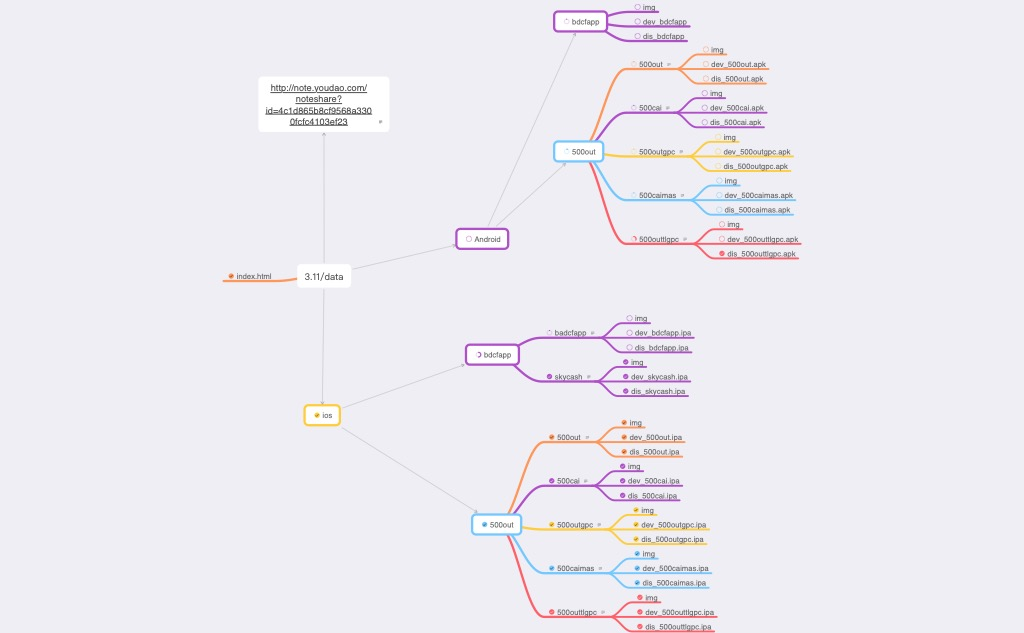
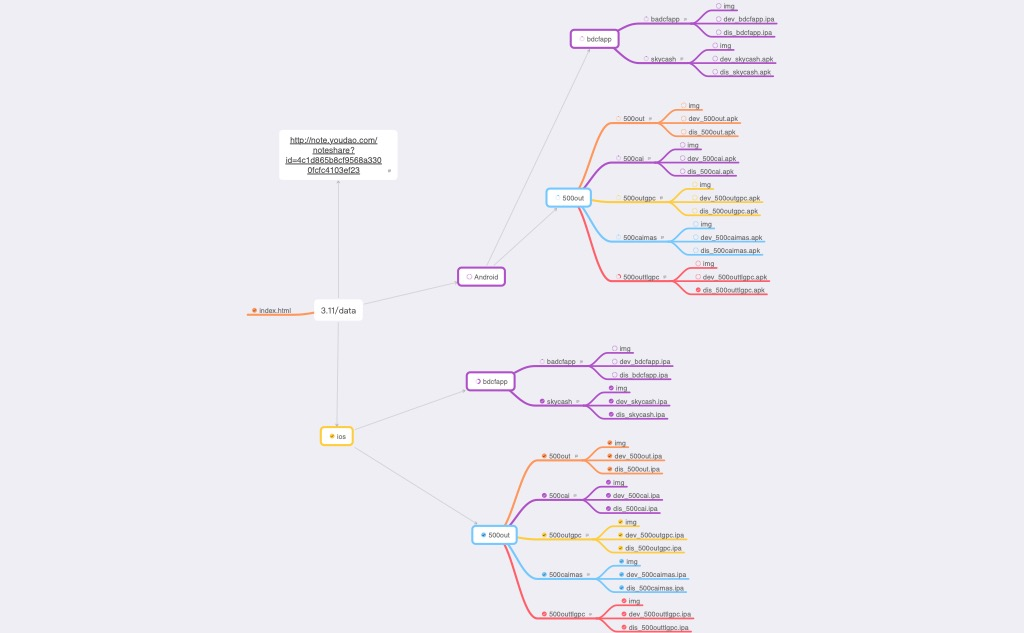
no message

diff --git a/uploadstatic/source/50x.html b/uploadstatic/source/50x.html
@@ -1,30 +1,42 @@
 <!DOCTYPE html>
 <html>
 <head>
-    <meta charset="utf-8" />
-    <title>专用测试</title>
+    <title>内部测试</title>
+    <meta  charset="utf-8" content="width=device-width, initial-scale=1.0, maximum-scale=1.0, user-scalable=0" name="viewport" />
     <style>
+        /* html, body {
+        margin: 0;
+        height: 100%;
+        width: 100%;
+        overflow: hidden;
+    } */
         body {
             width: auto;
             margin: 0 auto;
             padding:0;
-        }
+             /* 适配齐刘海*/
+            padding-top: constant(safe-area-inset-top);  
+            /* 适配底部黑条*/
+             padding-bottom: constant(safe-area-inset-bottom);
+        } 
         .install{
-            margin-left: 50px;
-            margin-top: 10px;
+            margin-left: 15px;
+            margin-right: 10px;
+            margin-top: 5px;
             position: absolute;
         }
         .install1{
             clear:both;
-            margin-left: 50px;
+            margin-left: 15px;
+            margin-right: 10px;
             margin-top: 500px;
             position: absolute;
         }
 
        .down {
-            margin-left: 50px;
+            margin-left: 15px;
             margin-top: 950px;
-            margin-bottom: 100px;
+            padding-bottom: 100px;
             position: absolute;
         }
 
@@ -44,6 +56,24 @@
     text-decoration: none;
     line-height: 50px;
 }
+
+.link_button1 {
+    -webkit-border-radius: 4px;
+    -moz-border-radius: 4px;
+    border-radius: 4px;
+    border: solid 1px green;
+    text-shadow: 0 -1px 0 rgba(0, 0, 0, 0.4);
+    -webkit-box-shadow: inset 0 1px 0 rgba(255, 255, 255, 0.4), 0 1px 1px rgba(0, 0, 0, 0.2);
+    -moz-box-shadow: inset 0 1px 0 rgba(255, 255, 255, 0.4), 0 1px 1px rgba(0, 0, 0, 0.2);
+    box-shadow: inset 0 1px 0 rgba(255, 255, 255, 0.4), 0 1px 1px rgba(0, 0, 0, 0.2);
+    background: green;
+    color: #FFF;
+    padding: 8px 12px;
+    text-decoration: none;
+    line-height: 50px;
+
+}
+
     </style>
 </head>
 
@@ -51,7 +81,7 @@
     <div class="install">
         <p style="font-size: 18px; color: #F00">测试人员安装教程如下方法:</p>
         <p style="font-size: 28px; color:teal">测试服务器:</p>
-        <p style="font-size: 18px; color:rgb(164, 201, 89)">苹果方法一:请使用苹果手机的Safari打开连接,点击安装测试包.</p>
+        <p style="font-size: 18px; color:#4479BA">苹果方法一:请使用苹果手机的Safari打开连接,点击安装测试包.</p>
 
         <div style="height: 80px">
             <!-- <a href="itms-services://?action=download-manifest&url=https://raw.githubusercontent.com/Debiao/Essence/master/github_plist/bdcfapp/dev_bdcfapp.plist" class="link_button">bdcfapp</a> -->
@@ -64,23 +94,24 @@
 
         </div>
         
-
+      
         <div style="margin-top: 50px">
-        <p style="font-size: 18px; color:rgb(164, 201, 89)">安卓方法一:点击安装测试包.</p>
-        <a href="itms-services://?action=download-manifest&url=https://raw.githubusercontent.com/Debiao/Essence/master/github_plist/bdcfapp/dis_bdcfapp.plist" class="link_button">bdcfapp</a>
-        <a href="itms-services://?action=download-manifest&url=https://raw.githubusercontent.com/Debiao/Essence/master/github_plist/500out/500out/dis_500out.plist" class="link_button">500out</a>
-        <a href="itms-services://?action=download-manifest&url=https://raw.githubusercontent.com/Debiao/Essence/master/github_plist/500out/500cai/dis_500cai.plist" class="link_button">500cai</a>
-        <a href="itms-services://?action=download-manifest&url=https://raw.githubusercontent.com/Debiao/Essence/master/github_plist/500out/500outgpc/dis_500outgpc.plist" class="link_button">500outgpc</a>
-        <!-- <a href="itms-services://?action=download-manifest&url=https://raw.githubusercontent.com/Debiao/Essence/master/github_plist/500out/500caimas/dis_500caimas.plist" class="link_button">500caimas</a> -->
-        <a href="https://zt.gzxstech.com/Android/500out/500outtlgpc/dis_500outtlgpc.apk" class="link_button">股彩土楼</a>
+        <p style="font-size: 18px; color:green">安卓方法一:点击安装测试包.</p>
+        <a href="https://zt.gzxstech.com/Android/bdcfapp/skycash/dev_skycash.apk" class="link_button1">skycash</a>
+        <a href="https://zt.gzxstech.com/Android/500out/500out/dev_500out.apk" class="link_button1">500out</a>
+        <a href="https://zt.gzxstech.com/Android/500out/500cai/dev_500cai.apk" class="link_button1">500cai</a>
+        <a href="https://zt.gzxstech.com/Android/500out/500outgpc/dev_500outgpc.apk" class="link_button1">500outgpc</a>
+        <a href="https://zt.gzxstech.com/Android/500out/500outtlgpc/dev_500outtlgpc.apk" class="link_button1">股彩土楼</a>
         <br />
         </div>
     </div>
 
 
+    
+
     <div class="install1">
         <p style="font-size: 28px; color:teal">正式服务器:</p>
-        <p style="font-size: 18px; color:rgb(164, 201, 89)">苹果方法一:请使用苹果手机的Safari打开连接,点击安装测试包.</p>
+        <p style="font-size: 18px; color:#4479BA">苹果方法一:请使用苹果手机的Safari打开连接,点击安装测试包.</p>
 
         <div style="height: 80px">
             <a href="itms-services://?action=download-manifest&url=https://raw.githubusercontent.com/Debiao/Essence/master/github_plist/bdcfapp/skycash/dis_skycash.plist" class="link_button">skycash</a>
@@ -93,13 +124,12 @@
         </div>
 
         <div style="margin-top: 50px">
-        <p style="font-size: 18px; color:rgb(164, 201, 89)">安卓方法一:点击安装测试包.</p>
-        <a href="itms-services://?action=download-manifest&url=https://raw.githubusercontent.com/duanade/myproject/master/bdcfceshi.plist" class="link_button">bdcfapp</a>
-        <a href="itms-services://?action=download-manifest&url=https://raw.githubusercontent.com/Debiao/Essence/master/github_plist/500out/500out/dev_500out.plist" class="link_button">500out</a>
-        <a href="itms-services://?action=download-manifest&url=https://raw.githubusercontent.com/Debiao/Essence/master/github_plist/500out/500out/dev_500out.plist" class="link_button">500cai</a>
-        <a href="itms-services://?action=download-manifest&url=https://raw.githubusercontent.com/Debiao/Essence/master/github_plist/500out/500out/dev_500out.plist" class="link_button">500outgpc</a>
-        <!-- <a href="itms-services://?action=download-manifest&url=https://raw.githubusercontent.com/Debiao/Essence/master/github_plist/500out/500out/dev_500out.plist" class="link_button">500caimas</a> -->
-        <a href="https://zt.gzxstech.com/Android/500out/500outtlgpc/dis_500outtlgpc.apk" class="link_button">股彩土楼</a>
+        <p style="font-size: 18px; color:green">安卓方法一:点击安装测试包.</p>
+        <a href="https://zt.gzxstech.com/Android/bdcfapp/skycash/dis_skycash.apk" class="link_button1">skycash</a>
+        <a href="https://zt.gzxstech.com/Android/500out/500out/dis_500out.apk" class="link_button1">500out</a>
+        <a href="https://zt.gzxstech.com/Android/500out/500cai/dis_500cai.apk" class="link_button1">500cai</a>
+        <a href="https://zt.gzxstech.com/Android/500out/500outgpc/dis_500outgpc.apk" class="link_button1">500outgpc</a>
+        <a href="https://zt.gzxstech.com/Android/500out/500outtlgpc/dis_500outtlgpc.apk" class="link_button1">股彩土楼</a>
         <br />
         </div>
     </div>
@@ -107,7 +137,7 @@
     
     <div class="down">
         <p style="font-size: 28px;color:teal">
-            未签名包下载:
+            苹果未签名包下载:
         </p>
         <div style="height: 80px">
             <!-- <a href="https://zt.gzxstech.com/ios/bdcfapp/dis_bdcfapp.ipa" class="link_button">bdcfapp</a> -->
@@ -116,6 +146,7 @@
             <a href="https://zt.gzxstech.com/ios/500out/500cai/dis_500cai.ipa" class="link_button">500cai</a>
             <a href="https://zt.gzxstech.com/ios/500out/500outgpc/dis_500outgpc.ipa" class="link_button">500outgpc</a>
             <!-- <a href="https://zt.gzxstech.com/ios/500out/500caimas/dis_500caimas.ipa" class="link_button">500caimas</a> -->
+            <br>
             <a href="https://zt.gzxstech.com/ios/500out/500outtlgpc/dis_500outtlgpc.ipa" class="link_button">股彩土楼</a>
         </div>
      
@@ -124,3 +155,19 @@
 </body>
 
 </html>
+<script type="text/javascript">
+        function resizeRem() {
+        if (window.innerWidth < window.innerHeight)
+        {
+            var html = document.querySelector('html');
+            var rem = html.offsetHeight / 10.80;
+            html.style.fontSize = rem + "px";
+        }
+        else {
+            var html = document.querySelector('html');
+            var rem = html.offsetWidth / 19.20;
+            html.style.fontSize = rem + "px";
+        }
+    }
+</script>
+

diff --git a/uploadstatic/source/50.html b/uploadstatic/source/50.html
@@ -1,0 +1,113 @@
+<!DOCTYPE html>
+<html>
+<head>
+  <title>内部测试</title>
+  <meta charset="utf-8">
+  <meta name="viewport" content="width=device-width, initial-scale=1">
+  <link rel="stylesheet" href="https://cdn.staticfile.org/twitter-bootstrap/3.3.7/css/bootstrap.min.css">  
+  <script src="https://cdn.staticfile.org/jquery/2.1.1/jquery.min.js"></script>
+  <script src="https://cdn.staticfile.org/twitter-bootstrap/3.3.7/js/bootstrap.min.js"></script>
+  <style>
+    .link_button {
+    -webkit-border-radius: 4px;
+    -moz-border-radius: 4px;
+    border-radius: 4px;
+    border: solid 1px #20538D;
+    text-shadow: 0 -1px 0 rgba(0, 0, 0, 0.4);
+    -webkit-box-shadow: inset 0 1px 0 rgba(255, 255, 255, 0.4), 0 1px 1px rgba(0, 0, 0, 0.2);
+    -moz-box-shadow: inset 0 1px 0 rgba(255, 255, 255, 0.4), 0 1px 1px rgba(0, 0, 0, 0.2);
+    box-shadow: inset 0 1px 0 rgba(255, 255, 255, 0.4), 0 1px 1px rgba(0, 0, 0, 0.2);
+    background: #4479BA;
+    color: #FFF;
+    padding: 8px 12px;
+    text-decoration: none;
+    line-height: 50px;
+}
+    .link_button1 {
+    -webkit-border-radius: 4px;
+    -moz-border-radius: 4px;
+    border-radius: 4px;
+    border: solid 1px green;
+    text-shadow: 0 -1px 0 rgba(0, 0, 0, 0.4);
+    -webkit-box-shadow: inset 0 1px 0 rgba(255, 255, 255, 0.4), 0 1px 1px rgba(0, 0, 0, 0.2);
+    -moz-box-shadow: inset 0 1px 0 rgba(255, 255, 255, 0.4), 0 1px 1px rgba(0, 0, 0, 0.2);
+    box-shadow: inset 0 1px 0 rgba(255, 255, 255, 0.4), 0 1px 1px rgba(0, 0, 0, 0.2);
+    background: green;
+    color: #FFF;
+    padding: 8px 12px;
+    text-decoration: none;
+    line-height: 50px;
+
+}
+  </style>
+</head>
+<body>
+        <!-- ①②③④⑤⑥⑦⑧⑨⑩ -->
+<div class="container">
+  <div class="jumbotron">
+    <h3>使用安装教程方法如下:</h3>
+    <p>一.简要说明:</p> 
+    <p>① 服务器: 分正式服务器和测试服务器.</p>
+    <p>② 苹果手机: 请使用苹果手机自带的Safari打开链接,点击安装测试包.</p>
+    <p>③ 安卓手机: 请使用手机浏览器打开链接,点击安装测试包.</p>
+    <p>④ 苹果未签名包下载:请使用任意浏览器点击可以直接下载.</p>
+  </div>
+  
+   <h3>苹果区</h3>
+  
+   <div class="row">
+        <div class="col-sm-6">
+            <h4>正试服</h4>
+            <div class="jumbotron">
+                <a href="itms-services://?action=download-manifest&url=https://raw.githubusercontent.com/Debiao/Essence/master/github_plist/bdcfapp/skycash/dis_skycash.plist" class="link_button">skycash</a>
+                <a href="itms-services://?action=download-manifest&url=https://raw.githubusercontent.com/Debiao/Essence/master/github_plist/500out/500out/dis_500out.plist" class="link_button">500out</a>
+                <a href="itms-services://?action=download-manifest&url=https://raw.githubusercontent.com/Debiao/Essence/master/github_plist/500out/500cai/dis_500cai.plist" class="link_button">500cai</a>
+                <a href="itms-services://?action=download-manifest&url=https://raw.githubusercontent.com/Debiao/Essence/master/github_plist/500out/500outgpc/dis_500outgpc.plist" class="link_button">500outgpc</a>
+                <a href="itms-services://?action=download-manifest&url=https://raw.githubusercontent.com/Debiao/Essence/master/github_plist/500out/500outtlgpc/dis_500outtlgpc.plist" class="link_button">股彩土楼</a>
+            </div>   
+        </div>
+        <div class="col-sm-6">
+           <h4>测试服</h4>
+            <div class="jumbotron">
+                <a href="itms-services://?action=download-manifest&url=https://raw.githubusercontent.com/Debiao/Essence/master/github_plist/bdcfapp/dev_bdcfapp.plist" class="link_button1">skycash</a>
+                <a href="itms-services://?action=download-manifest&url=https://raw.githubusercontent.com/Debiao/Essence/master/github_plist/500out/500out/dev_500out.plist" class="link_button1">500out</a>
+                <a href="itms-services://?action=download-manifest&url=https://raw.githubusercontent.com/Debiao/Essence/master/github_plist/500out/500cai/dev_500cai.plist" class="link_button1">500cai</a>
+                <a href="itms-services://?action=download-manifest&url=https://raw.githubusercontent.com/Debiao/Essence/master/github_plist/500out/500outgpc/dev_500outgpc.plist" class="link_button1">500outgpc</a>
+                <a href="itms-services://?action=download-manifest&url=https://raw.githubusercontent.com/Debiao/Essence/master/github_plist/500out/500outtlgpc/dev_500outtlgpc.plist" class="link_button1">股彩土楼</a>
+            </div>
+        </div>
+  </div>
+  <h3>安卓区</h3>
+  <div class="row">
+        <div class="col-sm-6">
+            <h4>正试服</h4>
+            <div class="jumbotron">
+                <a href="https://zt.gzxstech.com/Android/bdcfapp/skycash/dis_skycash.apk" class="link_button">skycash</a>
+                <a href="https://zt.gzxstech.com/Android/500out/500out/dis_500out.apk" class="link_button">500out</a>
+                <a href="https://zt.gzxstech.com/Android/500out/500cai/dis_500cai.apk" class="link_button">500cai</a>
+                <a href="https://zt.gzxstech.com/Android/500out/500outgpc/dis_500outgpc.apk" class="link_button">500outgpc</a>
+                <a href="https://zt.gzxstech.com/Android/500out/500outtlgpc/dis_500outtlgpc.apk" class="link_button">股彩土楼</a>
+            </div>   
+        </div>
+        <div class="col-sm-6">
+           <h4>测试服</h4>
+            <div class="jumbotron">
+                <a href="https://zt.gzxstech.com/Android/bdcfapp/skycash/dev_skycash.apk" class="link_button1">skycash</a>
+                <a href="https://zt.gzxstech.com/Android/500out/500out/dev_500out.apk" class="link_button1">500out</a>
+                <a href="https://zt.gzxstech.com/Android/500out/500cai/dev_500cai.apk" class="link_button1">500cai</a>
+                <a href="https://zt.gzxstech.com/Android/500out/500outgpc/dev_500outgpc.apk" class="link_button1">500outgpc</a>
+                <a href="https://zt.gzxstech.com/Android/500out/500outtlgpc/dev_500outtlgpc.apk" class="link_button1">股彩土楼</a>
+            </div>
+        </div>
+  </div>
+  <h3>苹果未签名包下载区</h3>
+   <div class="jumbotron">
+        <a href="https://zt.gzxstech.com/ios/bdcfapp/skycash/dis_skycash.ipa" class="link_button">skycash</a>
+        <a href="https://zt.gzxstech.com/ios/500out/500out/dis_500out.ipa" class="link_button">500out</a>
+        <a href="https://zt.gzxstech.com/ios/500out/500cai/dis_500cai.ipa" class="link_button">500cai</a>
+        <a href="https://zt.gzxstech.com/ios/500out/500outgpc/dis_500outgpc.ipa" class="link_button">500outgpc</a>
+         <a href="https://zt.gzxstech.com/ios/500out/500outtlgpc/dis_500outtlgpc.ipa" class="link_button">股彩土楼</a>
+    </div>
+</div>
+</body>
+</html>
